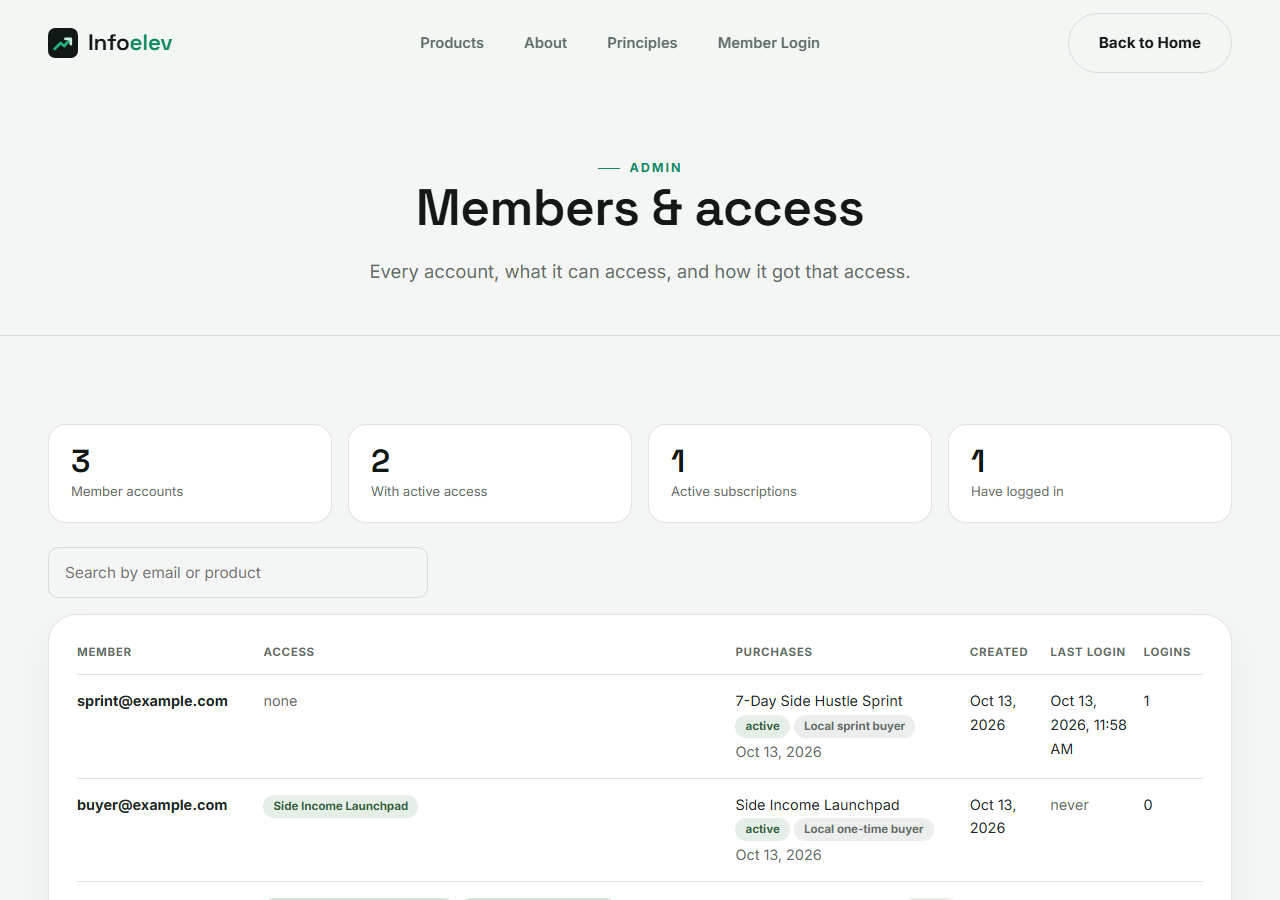
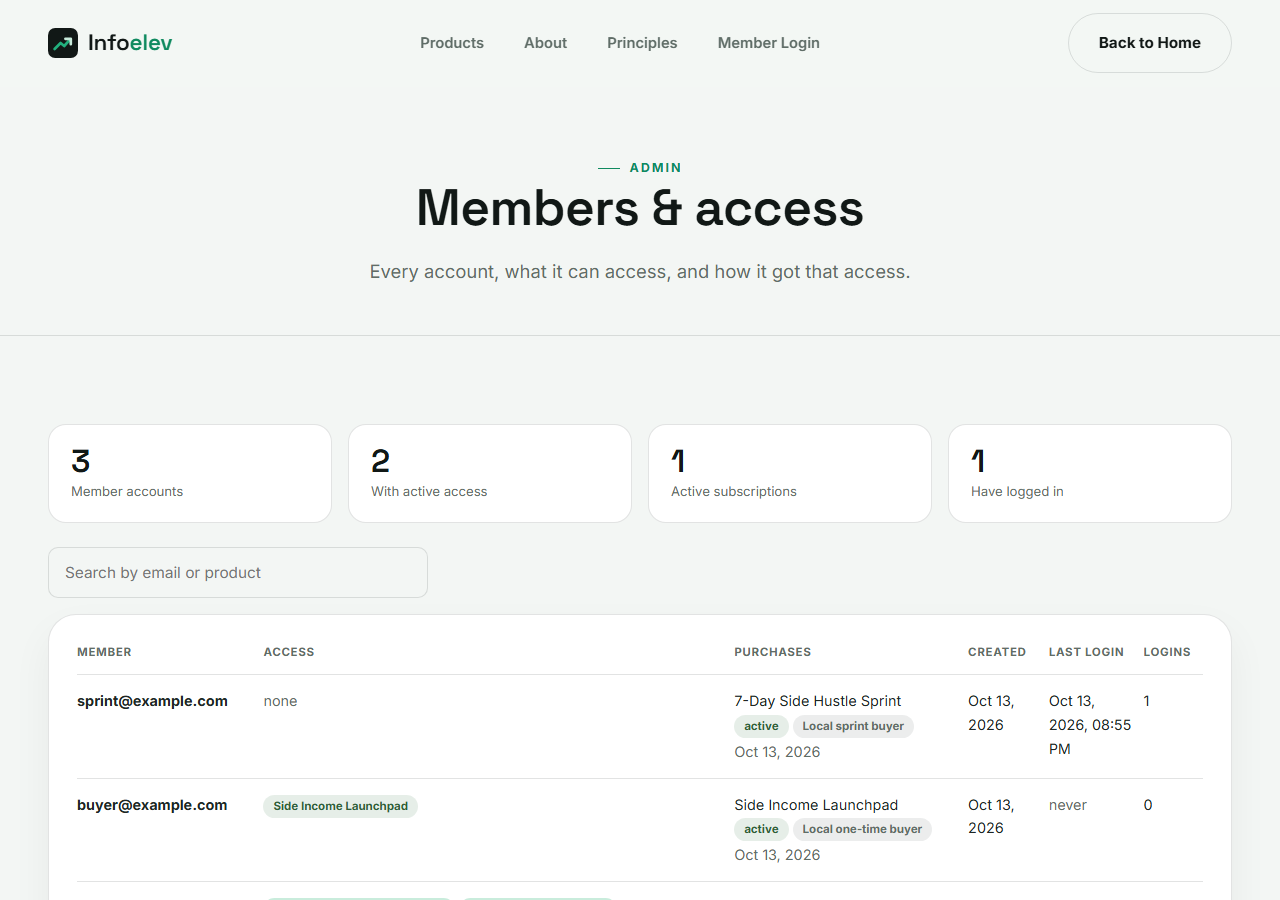
Use the real support email and phone everywhere; working contact form; signed Stripe email
- Support email is now infoelevdigitalbusinessllc@gmail.com (same as the Stripe account)
- Phone +1 (307) 394-5064 in every footer, the contact page and the dossier
- Contact form opens the visitor's email app addressed to support instead of a dead preview
- Stripe email signed by the owner; dossier screenshots recaptured
- build.mjs refuses to capture screenshots when the site is down

diff --git a/docs/stripe/dossier.html b/docs/stripe/dossier.html
@@ -96,7 +96,7 @@
     <dt>Stripe account</dt><dd>[ACCOUNT ID]</dd>
     <dt>Principal office</dt><dd>8200 NW 41st Street, 2nd Floor, Doral, FL 33166, United States</dd>
     <dt>Website</dt><dd><a href="https://infoelev.com">https://infoelev.com</a></dd>
-    <dt>Support</dt><dd><a href="mailto:support@infoelev.com">support@infoelev.com</a></dd>
+    <dt>Support</dt><dd><a href="mailto:infoelevdigitalbusinessllc@gmail.com">infoelevdigitalbusinessllc@gmail.com</a> · <a href="tel:+13073945064">+1 (307) 394-5064</a></dd>
     <dt>Industry</dt><dd>Online education — digital courses and tools about building extra income</dd>
     <dt>Prepared</dt><dd id="prepared-date"></dd>
   </dl>
@@ -268,7 +268,7 @@
   <h2><span class="n">08</span>Support, refunds and cancellations</h2>
   <table>
     <tr><th style="width:1.7in">Policy</th><th>How it works</th></tr>
-    <tr><td><strong>Support</strong></td><td>Email <a href="mailto:support@infoelev.com">support@infoelev.com</a>, listed in every page footer and every customer email, plus the <a href="https://infoelev.com/contact.html">contact page</a>. We aim to reply within 1–2 business days.</td></tr>
+    <tr><td><strong>Support</strong></td><td>Email <a href="mailto:infoelevdigitalbusinessllc@gmail.com">infoelevdigitalbusinessllc@gmail.com</a> and phone <a href="tel:+13073945064">+1 (307) 394-5064</a>, listed in every page footer and every customer email, plus the <a href="https://infoelev.com/contact.html">contact page</a>. We aim to reply within 1–2 business days.</td></tr>
     <tr><td><strong>Refunds</strong></td><td>Full refund within 7 calendar days of any one-time purchase (courses, Library, and sprints), no detailed explanation required. For memberships, the guarantee covers the first payment. Access is removed when the refund is processed. <a href="https://infoelev.com/refund.html">Refund Policy</a></td></tr>
     <tr><td><strong>Cancellations</strong></td><td>Memberships can be canceled anytime. Access continues until the end of the period already paid; renewals stop immediately.</td></tr>
     <tr><td><strong>Lost access</strong></td><td>Self-service password reset by email, plus manual help through support.</td></tr>
@@ -291,7 +291,7 @@
     <tr><td><strong>Email</strong></td><td>stripe-review@infoelev.com</td></tr>
     <tr><td><strong>Password</strong></td><td>[REVIEWER PASSWORD]</td></tr>
   </table>
-  <p class="muted">We are happy to provide any further information or documentation. Contact: <a href="mailto:support@infoelev.com">support@infoelev.com</a>.</p>
+  <p class="muted">We are happy to provide any further information or documentation. Contact: <a href="mailto:infoelevdigitalbusinessllc@gmail.com">infoelevdigitalbusinessllc@gmail.com</a>.</p>
 </section>
 
 <script>

diff --git a/contact.html b/contact.html
@@ -59,7 +59,15 @@
           <div class="icon-wrap"><svg viewBox="0 0 24 24" fill="none" stroke-width="2" stroke-linecap="round" stroke-linejoin="round"><path d="M4 4h16c1.1 0 2 .9 2 2v12c0 1.1-.9 2-2 2H4c-1.1 0-2-.9-2-2V6c0-1.1.9-2 2-2z"/><polyline points="22,6 12,13 2,6"/></svg></div>
           <div>
             <h4>Email Support</h4>
-            <p><a href="mailto:support@infoelev.com" style="color:var(--text-on-ink);font-weight:700;">support@infoelev.com</a></p>
+            <p><a href="mailto:infoelevdigitalbusinessllc@gmail.com" style="color:var(--text-on-ink);font-weight:700;">infoelevdigitalbusinessllc@gmail.com</a></p>
+          </div>
+        </div>
+
+        <div class="info-row">
+          <div class="icon-wrap"><svg viewBox="0 0 24 24" fill="none" stroke-width="2" stroke-linecap="round" stroke-linejoin="round"><path d="M22 16.92v3a2 2 0 0 1-2.18 2 19.79 19.79 0 0 1-8.63-3.07 19.5 19.5 0 0 1-6-6 19.79 19.79 0 0 1-3.07-8.67A2 2 0 0 1 4.11 2h3a2 2 0 0 1 2 1.72c.13.96.36 1.9.7 2.81a2 2 0 0 1-.45 2.11L8.09 9.91a16 16 0 0 0 6 6l1.27-1.27a2 2 0 0 1 2.11-.45c.91.34 1.85.57 2.81.7A2 2 0 0 1 22 16.92z"/></svg></div>
+          <div>
+            <h4>Phone</h4>
+            <p><a href="tel:+13073945064" style="color:var(--text-on-ink);font-weight:700;">+1 (307) 394-5064</a></p>
           </div>
         </div>
 
@@ -119,7 +127,7 @@
             <textarea class="form-control" id="message" placeholder="Tell us a bit about what you need…" required></textarea>
           </div>
           <button type="submit" class="btn btn-primary btn-block btn-lg">Send Message</button>
-          <p class="form-note" id="contact-form-note">This form is a preview while our support channel is finalized.</p>
+          <p class="form-note" id="contact-form-note">Sending opens your email app with your message ready to go. You can also write to us directly at <a href="mailto:infoelevdigitalbusinessllc@gmail.com">infoelevdigitalbusinessllc@gmail.com</a>.</p>
         </form>
       </div>
     </div>
@@ -155,7 +163,8 @@
       </div>
       <div class="footer-col reveal d3">
         <h4>Get in Touch</h4>
-        <p class="footer-contact-note"><a href="mailto:support@infoelev.com" style="color:var(--text-on-ink);font-weight:700;">support@infoelev.com</a></p>
+        <p style="margin-bottom:14px;"><a href="tel:+13073945064" style="color:var(--text-on-ink);font-weight:700;">+1 (307) 394-5064</a></p>
+        <p class="footer-contact-note"><a href="mailto:infoelevdigitalbusinessllc@gmail.com" style="color:var(--text-on-ink);font-weight:700;">infoelevdigitalbusinessllc@gmail.com</a></p>
       </div>
     </div>
     <div class="footer-legal">

diff --git a/privacy.html b/privacy.html
@@ -105,7 +105,7 @@
       <p>We may update this Privacy Policy from time to time. Changes will be posted on this page with a revised "Last updated" date.</p>
 
       <h2>12. Contact Us</h2>
-      <p>For any questions about this Privacy Policy or your personal data, please reach out via our <a href="contact.html">Contact page</a>. You can also email us at <a href="mailto:support@infoelev.com">support@infoelev.com</a>.</p>
+      <p>For any questions about this Privacy Policy or your personal data, please reach out via our <a href="contact.html">Contact page</a>. You can also email us at <a href="mailto:infoelevdigitalbusinessllc@gmail.com">infoelevdigitalbusinessllc@gmail.com</a>.</p>
     </div>
   </div>
 </section>
@@ -139,7 +139,8 @@
       </div>
       <div class="footer-col reveal d3">
         <h4>Get in Touch</h4>
-        <p class="footer-contact-note"><a href="mailto:support@infoelev.com" style="color:var(--text-on-ink);font-weight:700;">support@infoelev.com</a></p>
+        <p style="margin-bottom:14px;"><a href="tel:+13073945064" style="color:var(--text-on-ink);font-weight:700;">+1 (307) 394-5064</a></p>
+        <p class="footer-contact-note"><a href="mailto:infoelevdigitalbusinessllc@gmail.com" style="color:var(--text-on-ink);font-weight:700;">infoelevdigitalbusinessllc@gmail.com</a></p>
       </div>
     </div>
     <div class="footer-legal">

diff --git a/assets/js/main.js b/assets/js/main.js
@@ -51,13 +51,14 @@ document.addEventListener("DOMContentLoaded", () => {
   // Contact form (no backend wired up yet)
   const contactForm = document.querySelector("#contact-form");
   if (contactForm) {
+    // No backend for this form: it opens the visitor's email app addressed to support, with everything filled in.
     contactForm.addEventListener("submit", (event) => {
       event.preventDefault();
-      const note = document.querySelector("#contact-form-note");
-      if (note) {
-        note.textContent =
-          "Thanks! Our contact channel is being finalized — please reach out directly once our support email is published on this page.";
-      }
+      const value = (id) => (document.getElementById(id)?.value || "").trim();
+      const topic = document.getElementById("subject");
+      const subject = "[" + (topic?.selectedOptions[0]?.textContent || "Contact") + "] " + value("firstName") + " " + value("lastName");
+      const body = value("message") + "\n\n—\n" + value("firstName") + " " + value("lastName") + "\n" + value("email");
+      window.location.href = "mailto:infoelevdigitalbusinessllc@gmail.com?subject=" + encodeURIComponent(subject) + "&body=" + encodeURIComponent(body);
     });
   }
 });

diff --git a/account.html b/account.html
@@ -120,7 +120,8 @@
       </div>
       <div class="footer-col reveal d3">
         <h4>Get in Touch</h4>
-        <p class="footer-contact-note"><a href="mailto:support@infoelev.com" style="color:var(--text-on-ink);font-weight:700;">support@infoelev.com</a></p>
+        <p style="margin-bottom:14px;"><a href="tel:+13073945064" style="color:var(--text-on-ink);font-weight:700;">+1 (307) 394-5064</a></p>
+        <p class="footer-contact-note"><a href="mailto:infoelevdigitalbusinessllc@gmail.com" style="color:var(--text-on-ink);font-weight:700;">infoelevdigitalbusinessllc@gmail.com</a></p>
       </div>
     </div>
     <div class="footer-legal">

diff --git a/digital-product-academy.html b/digital-product-academy.html
@@ -222,7 +222,8 @@
       </div>
       <div class="footer-col reveal d3">
         <h4>Get in Touch</h4>
-        <p class="footer-contact-note"><a href="mailto:support@infoelev.com" style="color:var(--text-on-ink);font-weight:700;">support@infoelev.com</a></p>
+        <p style="margin-bottom:14px;"><a href="tel:+13073945064" style="color:var(--text-on-ink);font-weight:700;">+1 (307) 394-5064</a></p>
+        <p class="footer-contact-note"><a href="mailto:infoelevdigitalbusinessllc@gmail.com" style="color:var(--text-on-ink);font-weight:700;">infoelevdigitalbusinessllc@gmail.com</a></p>
       </div>
     </div>
     <div class="footer-legal">

diff --git a/flip-playbook.html b/flip-playbook.html
@@ -222,7 +222,8 @@
       </div>
       <div class="footer-col reveal d3">
         <h4>Get in Touch</h4>
-        <p class="footer-contact-note"><a href="mailto:support@infoelev.com" style="color:var(--text-on-ink);font-weight:700;">support@infoelev.com</a></p>
+        <p style="margin-bottom:14px;"><a href="tel:+13073945064" style="color:var(--text-on-ink);font-weight:700;">+1 (307) 394-5064</a></p>
+        <p class="footer-contact-note"><a href="mailto:infoelevdigitalbusinessllc@gmail.com" style="color:var(--text-on-ink);font-weight:700;">infoelevdigitalbusinessllc@gmail.com</a></p>
       </div>
     </div>
     <div class="footer-legal">

diff --git a/freelance-starter-kit.html b/freelance-starter-kit.html
@@ -233,7 +233,8 @@
       </div>
       <div class="footer-col reveal d3">
         <h4>Get in Touch</h4>
-        <p class="footer-contact-note"><a href="mailto:support@infoelev.com" style="color:var(--text-on-ink);font-weight:700;">support@infoelev.com</a></p>
+        <p style="margin-bottom:14px;"><a href="tel:+13073945064" style="color:var(--text-on-ink);font-weight:700;">+1 (307) 394-5064</a></p>
+        <p class="footer-contact-note"><a href="mailto:infoelevdigitalbusinessllc@gmail.com" style="color:var(--text-on-ink);font-weight:700;">infoelevdigitalbusinessllc@gmail.com</a></p>
       </div>
     </div>
     <div class="footer-legal">

diff --git a/index.html b/index.html
@@ -362,7 +362,8 @@
       </div>
       <div class="footer-col reveal d3">
         <h4>Get in Touch</h4>
-        <p class="footer-contact-note"><a href="mailto:support@infoelev.com" style="color:var(--text-on-ink);font-weight:700;">support@infoelev.com</a></p>
+        <p style="margin-bottom:14px;"><a href="tel:+13073945064" style="color:var(--text-on-ink);font-weight:700;">+1 (307) 394-5064</a></p>
+        <p class="footer-contact-note"><a href="mailto:infoelevdigitalbusinessllc@gmail.com" style="color:var(--text-on-ink);font-weight:700;">infoelevdigitalbusinessllc@gmail.com</a></p>
       </div>
     </div>
     <div class="footer-legal">

diff --git a/library.html b/library.html
@@ -226,7 +226,8 @@
       </div>
       <div class="footer-col reveal d3">
         <h4>Get in Touch</h4>
-        <p class="footer-contact-note"><a href="mailto:support@infoelev.com" style="color:var(--text-on-ink);font-weight:700;">support@infoelev.com</a></p>
+        <p style="margin-bottom:14px;"><a href="tel:+13073945064" style="color:var(--text-on-ink);font-weight:700;">+1 (307) 394-5064</a></p>
+        <p class="footer-contact-note"><a href="mailto:infoelevdigitalbusinessllc@gmail.com" style="color:var(--text-on-ink);font-weight:700;">infoelevdigitalbusinessllc@gmail.com</a></p>
       </div>
     </div>
     <div class="footer-legal">

diff --git a/login.html b/login.html
@@ -110,7 +110,8 @@
       </div>
       <div class="footer-col reveal d3">
         <h4>Get in Touch</h4>
-        <p class="footer-contact-note"><a href="mailto:support@infoelev.com" style="color:var(--text-on-ink);font-weight:700;">support@infoelev.com</a></p>
+        <p style="margin-bottom:14px;"><a href="tel:+13073945064" style="color:var(--text-on-ink);font-weight:700;">+1 (307) 394-5064</a></p>
+        <p class="footer-contact-note"><a href="mailto:infoelevdigitalbusinessllc@gmail.com" style="color:var(--text-on-ink);font-weight:700;">infoelevdigitalbusinessllc@gmail.com</a></p>
       </div>
     </div>
     <div class="footer-legal">

diff --git a/online-gig-playbook.html b/online-gig-playbook.html
@@ -222,7 +222,8 @@
       </div>
       <div class="footer-col reveal d3">
         <h4>Get in Touch</h4>
-        <p class="footer-contact-note"><a href="mailto:support@infoelev.com" style="color:var(--text-on-ink);font-weight:700;">support@infoelev.com</a></p>
+        <p style="margin-bottom:14px;"><a href="tel:+13073945064" style="color:var(--text-on-ink);font-weight:700;">+1 (307) 394-5064</a></p>
+        <p class="footer-contact-note"><a href="mailto:infoelevdigitalbusinessllc@gmail.com" style="color:var(--text-on-ink);font-weight:700;">infoelevdigitalbusinessllc@gmail.com</a></p>
       </div>
     </div>
     <div class="footer-legal">
